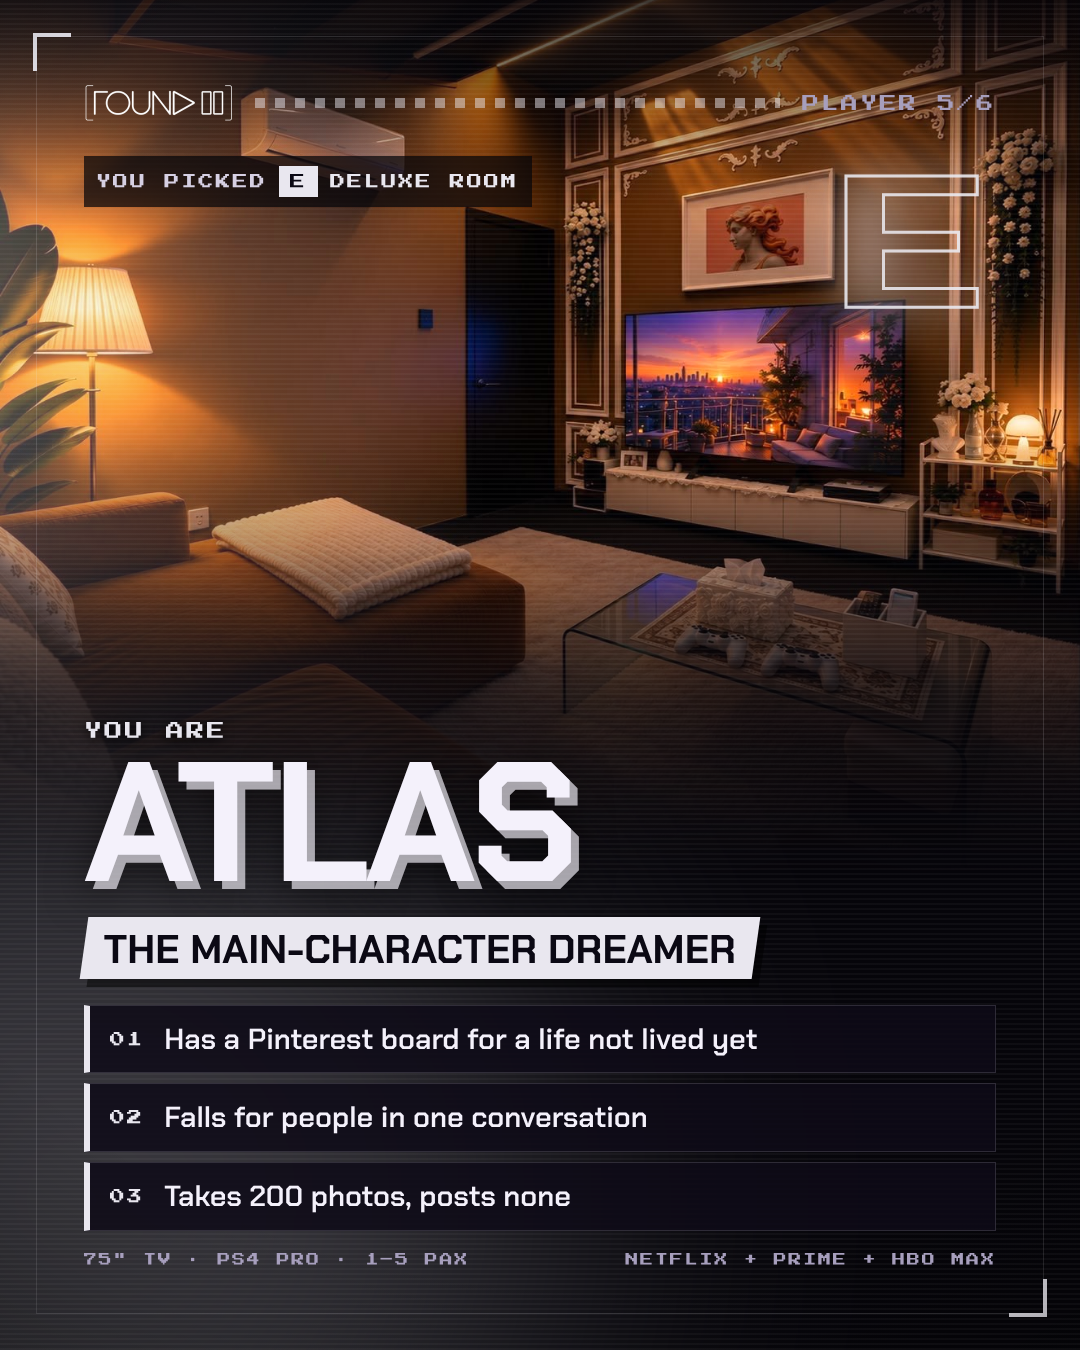
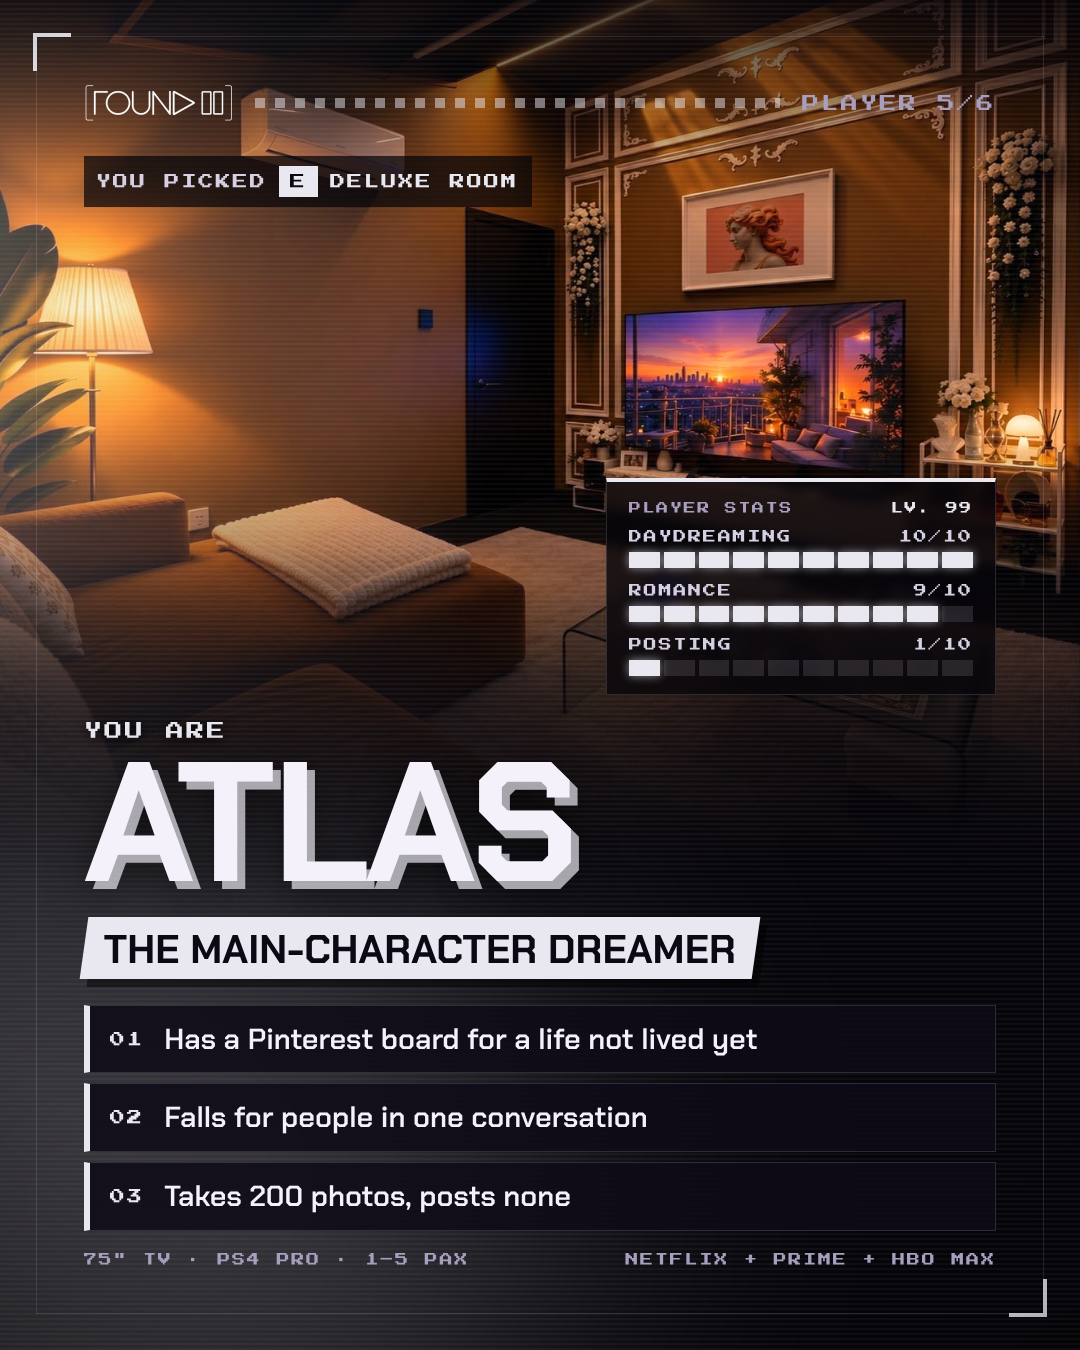
Room quiz: game-style player stats panel on each room card
Claude-Session: https://claude.ai/code/session_01PDkwSCLDYKchcH27nujJvW

Changed region(s): [[0.55, 0.3422, 0.9472, 0.5289], [0.7639, 0.0933, 0.9167, 0.2489]]

diff --git a/marketing/ig-room-quiz/index.html b/marketing/ig-room-quiz/index.html
@@ -57,8 +57,6 @@ body.render .blink{animation:none}
 .hero::after{content:"";position:absolute;inset:0;
   background:linear-gradient(180deg,rgba(6,5,10,.78) 0%,rgba(6,5,10,0) 24%,rgba(6,5,10,0) 50%,rgba(6,5,10,.7) 80%,rgba(6,5,10,.9) 100%),
              linear-gradient(90deg,color-mix(in srgb,var(--c) 28%,transparent),transparent 45%)}
-.big{position:absolute;right:84px;top:176px;z-index:2;font-family:'Press Start 2P',monospace;font-size:150px;line-height:1;
-  color:transparent;-webkit-text-stroke:3px color-mix(in srgb,var(--c) 85%,white);opacity:.9;text-shadow:0 0 50px color-mix(in srgb,var(--c) 60%,transparent)}
 .slide .glow.card{opacity:.16}
 .pick{margin-top:34px;align-self:flex-start;display:flex;align-items:center;gap:12px;padding:10px 14px 10px 12px;background:rgba(6,5,10,.72);font-size:15px;color:var(--soft)}
 .pick b{display:inline-block;padding:8px 11px;background:var(--c);color:var(--cink);font-weight:400}
@@ -75,6 +73,14 @@ body.render .blink{animation:none}
 .perk .n{font-size:15px;color:var(--c);flex:none}
 .perk .t{font-size:29px;font-weight:600;line-height:1.2;color:var(--ink)}
 .spec{margin-top:22px;display:flex;justify-content:space-between;font-size:13px;color:var(--mute)}
+.hud{position:absolute;right:84px;top:478px;z-index:7;width:390px;padding:20px 22px 18px;background:rgba(6,5,10,.8);border:1px solid var(--line);border-top:4px solid var(--c);backdrop-filter:blur(6px)}
+.hud .h{display:flex;justify-content:space-between;font-size:12px;color:var(--mute)}
+.hud .h b{font-weight:400;color:var(--c)}
+.stat{margin-top:16px}
+.stat .lb{display:flex;justify-content:space-between;font-size:13px;color:var(--soft)}
+.stat .bar{margin-top:9px;display:grid;grid-template-columns:repeat(10,1fr);gap:4px}
+.stat .bar i{height:16px;background:rgba(244,241,251,.12)}
+.stat .bar i.on{background:var(--c);box-shadow:0 0 10px color-mix(in srgb,var(--c) 60%,transparent)}
 /* end */
 .en-k{margin-top:70px;font-size:24px;color:var(--accent)}
 .en-t{margin:30px 0 0;font-weight:700;font-size:128px;line-height:.92;text-transform:uppercase}
@@ -99,17 +105,17 @@ body.render .blink{animation:none}
 // One option per room. Rooms, colours and specs come from the live site. Kaeden is left out while it's under renovation.
 const QUIZ = [
   { k:'A', room:'Vale',        night:'Unbothered face, loudest in the group chat', type:'The cold-girl extrovert',
-    traits:['Looks unapproachable, talks to everyone','Starts the karaoke and the drama','Secretly cries at Pixar movies'], sprite:'bauhaus' },
+    traits:['Looks unapproachable, talks to everyone','Starts the karaoke and the drama','Secretly cries at Pixar movies'], stats:[['Social',9],['Chaos',8],['Soft side',7]], sprite:'bauhaus' },
   { k:'B', room:'Scarlett',    night:'Most awake at 2am',                         type:'The night-owl overthinker',
-    traits:['Sends songs instead of saying how she feels','Deep talks only after midnight','Believes in the stars, a little'], sprite:'moon' },
+    traits:['Sends songs instead of saying how she feels','Deep talks only after midnight','Believes in the stars, a little'], stats:[['Night owl',10],['Overthinking',9],['Mystery',8]], sprite:'moon' },
   { k:'C', room:'Kai',         night:'Leaves first, sleeps best',                 type:'The calm introvert',
-    traits:['Replies “all good” and actually means it','Everyone’s unpaid therapist','Owns more plants than friends'], sprite:'bonsai' },
+    traits:['Replies “all good” and actually means it','Everyone’s unpaid therapist','Owns more plants than friends'], stats:[['Chill',10],['Patience',9],['Social battery',3]], sprite:'bonsai' },
   { k:'D', room:'Bella',       night:'Looks innocent, planned everything',        type:'The sweet-looking menace',
-    traits:['Started the whole plan, takes no blame','Reads tarot “for fun”, takes it seriously','Romanticises rainy days and old books'], sprite:'candle' },
+    traits:['Started the whole plan, takes no blame','Reads tarot “for fun”, takes it seriously','Romanticises rainy days and old books'], stats:[['Mischief',9],['Mystery',8],['Alibi',10]], sprite:'candle' },
   { k:'E', room:'Atlas',       night:'Romanticises literally everything',         type:'The main-character dreamer',
-    traits:['Has a Pinterest board for a life not lived yet','Falls for people in one conversation','Takes 200 photos, posts none'], sprite:'column' },
+    traits:['Has a Pinterest board for a life not lived yet','Falls for people in one conversation','Takes 200 photos, posts none'], stats:[['Daydreaming',10],['Romance',9],['Posting',1]], sprite:'column' },
   { k:'F', room:'Maximillion', night:'Turns everything into a competition',       type:'The sore winner',
-    traits:['Turns Monopoly into a blood sport','Says “one more round” at 3am','Never admits a loss, asks for a rematch'], sprite:'flag' },
+    traits:['Turns Monopoly into a blood sport','Says “one more round” at 3am','Never admits a loss, asks for a rematch'], stats:[['Competitive',10],['Speed',9],['Losing well',1]], sprite:'flag' },
 ];
 /* =================================================================== */
 
@@ -171,7 +177,7 @@ function cover(){
 function card(q, i){
   const r = ROOMS[q.room];
   const bg = `<div class="hero">${sprite(q.sprite, r.c)}<img src="photos/${q.room.toLowerCase()}.jpg" alt="" onerror="this.remove()"></div>
-    <div class="big">${q.k}</div>`;
+    <div class="hud"><div class="h px"><span>Player stats</span><b>Lv. 99</b></div>${q.stats.map(([l, v]) => `<div class="stat"><div class="lb px"><span>${esc(l)}</span><span>${v}/10</span></div><div class="bar">${Array.from({length:10}, (_, j) => `<i class="${j < v ? 'on' : ''}"></i>`).join('')}</div></div>`).join('')}</div>`;
   return frame(r.c, r.ink, `${topBar('Player ' + (i+1) + '/' + QUIZ.length)}
     <div class="pick px">You picked<b>${q.k}</b><span class="tier">${esc(r.tier)}</span></div>
     <div class="you px">You are</div>
